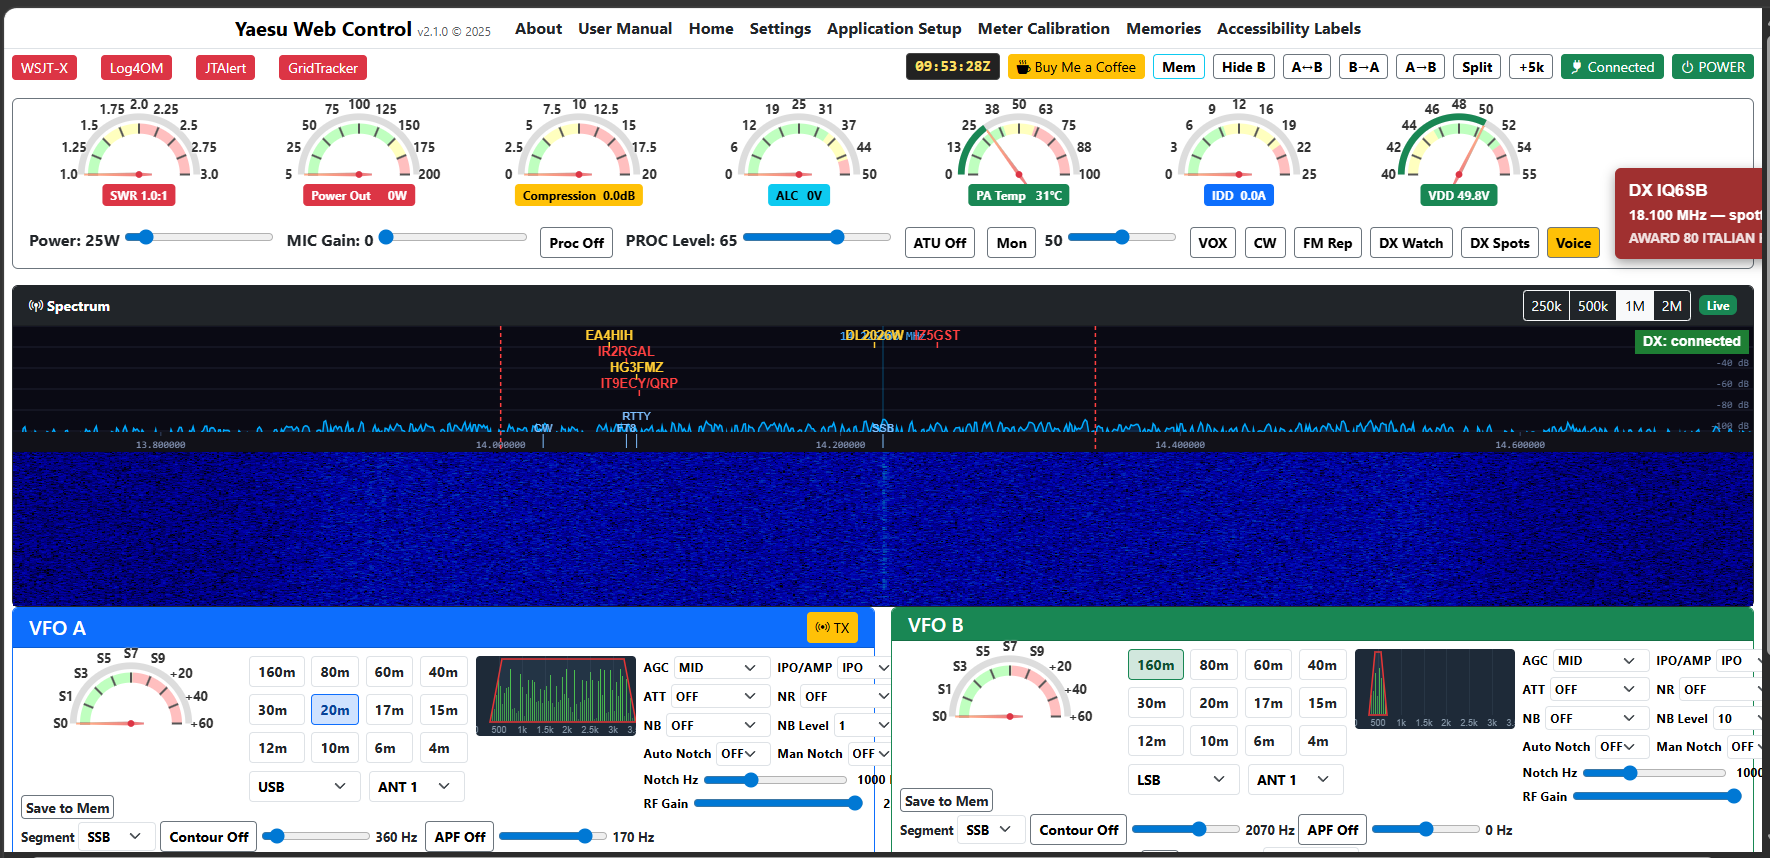
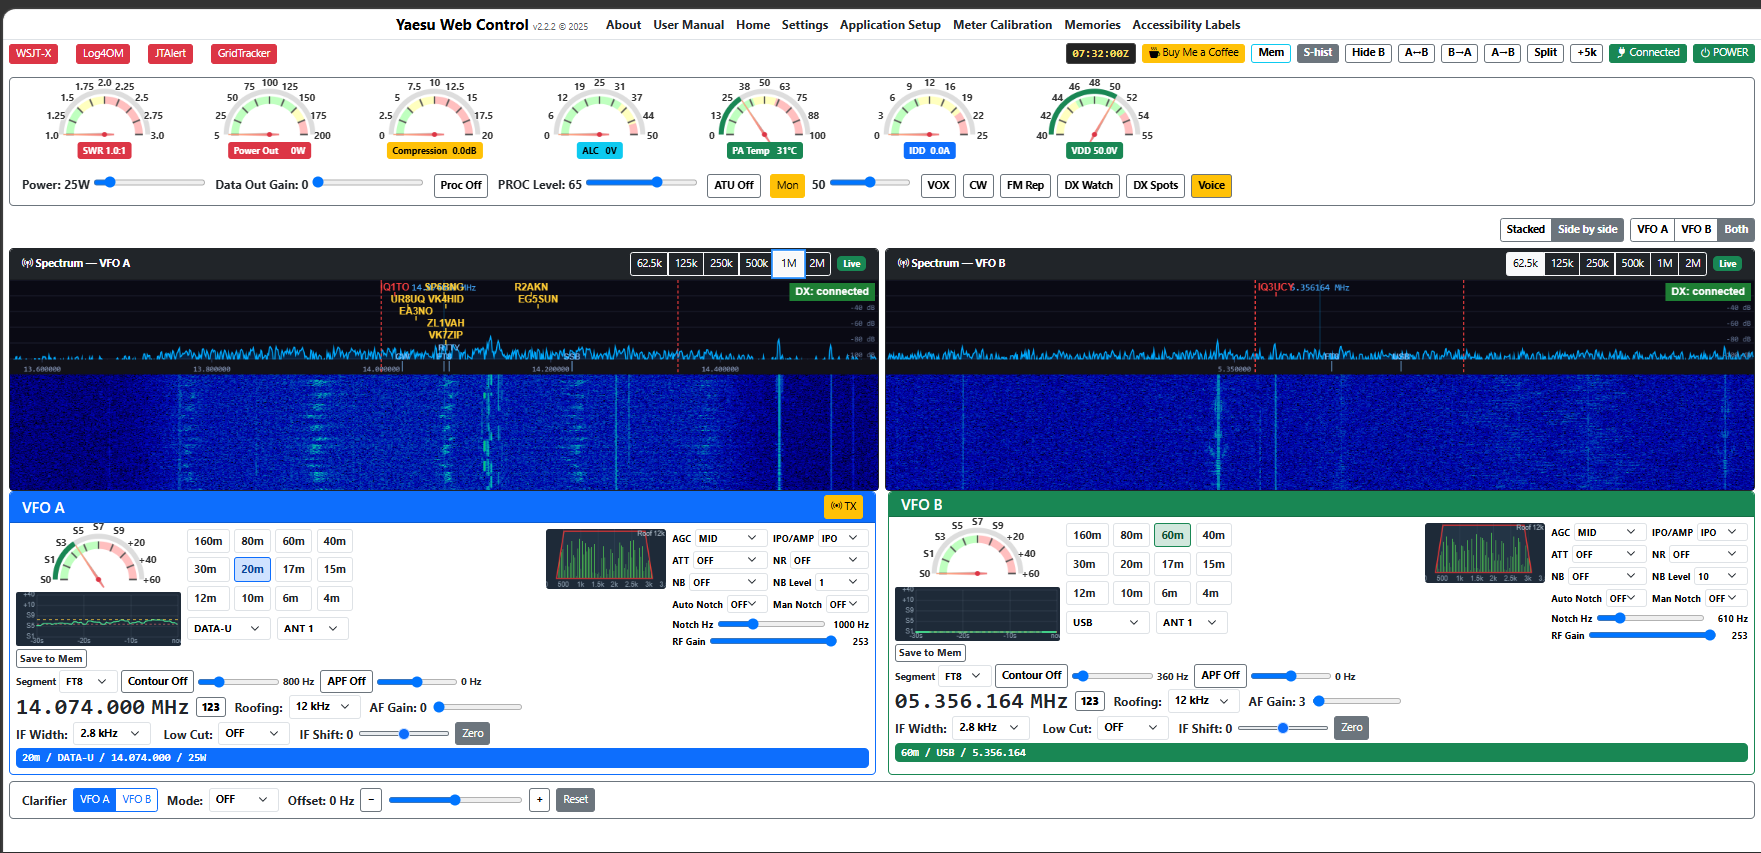
Docs: dual-SDR layout screenshots wired into USER_MANUAL §6.3
Two new pictures from Colin's bench showing the dual-SDR feature:

- pictures/Spectrum_Stacked.png — both spectrum panels at full
  page width, stacked vertically. Each has the full-height
  waterfall, span buttons, status badge etc.
- pictures/Spectrum_Side_By_Side.png — both panels at half page
  width, side by side. Both bands visible at once with less
  scrolling.
- pictures/DevelopScreen.png updated to show the full main page
  in dual-SDR layout (already referenced from README and
  USER_MANUAL — the new content flows through automatically).

USER_MANUAL §6.3 (Dual SDR section) now has both layout
screenshots inline next to the Stacked / Side-by-side toggle
explanation so users see what each choice looks like before
trying it.

diff --git a/USER_MANUAL.md b/USER_MANUAL.md
@@ -845,6 +845,14 @@ When both VFOs have an SDR, the main control panel gains two small toggle groups
 
 Both choices are remembered across page reloads via your browser's local storage. Click the spectrum on panel A to tune **VFO A**; click panel B to tune **VFO B** — each panel addresses its own receiver.
 
+**Stacked layout** — each panel uses the full width of the page, with a deeper waterfall trail per VFO. Best for spotting weak signals or studying the noise floor on one band while keeping an eye on the other:
+
+![Stacked dual-spectrum layout — VFO A on top, VFO B below, each at full width with full-height waterfall](pictures/Spectrum_Stacked.png)
+
+**Side-by-side layout** — both spectra share the page width 50/50, giving you both bands on screen at once without scrolling. Better for working two bands simultaneously (e.g. SSB on VFO A, FT8 on VFO B):
+
+![Side-by-side dual-spectrum layout — VFO A on the left, VFO B on the right, each at half-width](pictures/Spectrum_Side_By_Side.png)
+
 #### Updating the band plan without a YWC release
 
 From v2.3.0 the band plan data (activity-centre markers like CW / FT8 / SSB, plus the red band-edge guard rails) lives in a JSON file alongside YWC's install folder:
